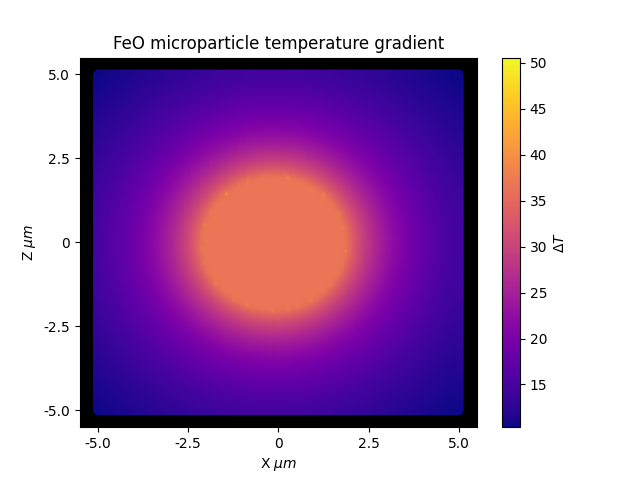
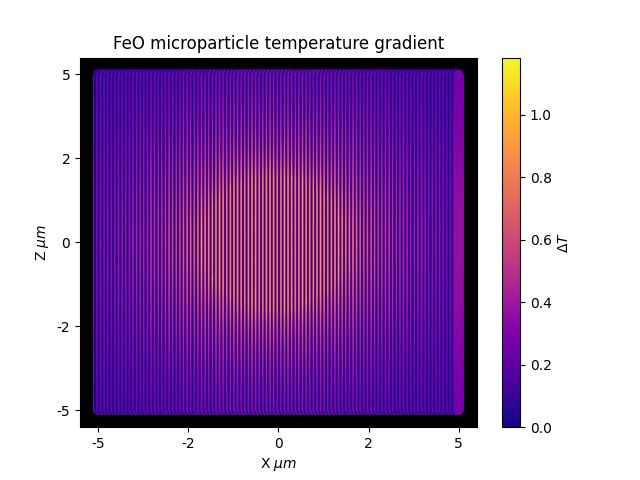
Agnese likes this :)

diff --git a/janus-gradient/src/main.cpp b/janus-gradient/src/main.cpp
@@ -12,36 +12,34 @@ using namespace std;
 std::random_device rd;
 std::mt19937 gen(rd());
 
-
+//Water conductivity = 0.606 
 
 //Constants:
-	const long double pi	       			       = 3.14159265358979323846;
-	const long double twoPi			       = 2*pi;
+	constexpr long double pi	       			       = 3.14159265358979323846;
+	constexpr long double twoPi			                = 2*3.14159265358979323846;
 
 
 //Particle:
-	const long double particleRadius            	= 2*pow(10,-6);
-	const int 	  nDeposits			      		= 1000;			  //should be between 1500-5000 depending on deposit size.
+	constexpr long double particleRadius            	= 2*pow(10,-6);
+	constexpr int 	          nDeposits			      	= 600;			  //should be between 1500-5000 depending on deposit size.
 //         const long double volumePerDeposit             = 4.1666*(10,-4)/nDeposits;
-	const long double depositRadius			= 10*pow(10,-9);	
-	const long double volumePerDeposit		= 4*pi*pow((depositRadius),3)/3; 
-	const long double depositArea			= pi*pow(depositRadius,2);
-	const long double kSilica				= 1.1;  			//W/m*K
+	constexpr long double depositRadius			= 30*pow(10,-9);	
+	constexpr  long double volumePerDeposit		= 4*pi*pow((depositRadius),3)/3; 
+	constexpr  long double depositArea			= pi*pow(depositRadius,2);
 //Simulation box:
-	const long double bounds 		   		= 5*pow(10,-6); //40 microns for now
+	constexpr long double bounds 		   		= 5*pow(10,-6); //40 microns for now
 	long double stepSize;
 	long double dv;
-	const long double alphaWater 			= 1.43*pow(10,-7);
+	constexpr long double alphaWater 			= 1.43*pow(10,-7);
 
 	
 //Laser:
-	const long double lambda			= 800*pow(10,-9);  //wavelength of laser. 
-	const long double intensity			= 100*pow(10,-3); // milliwatt laser
-	const long double areaOfIllumination     = 40*pow(10,-6); 
-	const long double I0				= 2*intensity/(pow(areaOfIllumination*2,2));
+	constexpr long double lambda			= 100*pow(10,-9);  //wavelength of laser. 
+	constexpr long double intensity			= 100*pow(10,-3); // milliwatt laser
+	constexpr  long double areaOfIllumination     = 40*pow(10,-6); 
+	constexpr long double I0				= 2*intensity/(pow(areaOfIllumination*2,2));
 	
-	const long double laserTerm 		= I0 + I0*cos(twoPi/lambda);
-	const long double qTerm 			= laserTerm*depositArea/(volumePerDeposit);
+
 	
 struct Point{
 	long double x;
@@ -56,22 +54,23 @@ float fastSqrt(const float n);
 
 
 inline long double integral(long double x, long double y, long double z,vector<Point> deposits){
+	long double positionFromCenter = sqrt(x*x + y*y + z*z);
+	long double laserTerm 		         = I0 + I0*cos(twoPi*x/lambda);
+	long double qTerm 			= laserTerm*depositArea/(volumePerDeposit);
+	
 	float contributionSum = 0.0;
 	float q = 0;
-	//long double positionFromCenter = sqrt(x*x + y*y + z*z);
-	float distance1;
+
+	float inv_sqrt_distance1;
 	//float distance2;
 	int i;
 
     	for (i = 0; i < deposits.size(); i++){
-    		distance1 = sqrt((x-deposits[i].x)*(x-deposits[i].x) + 
+    		inv_sqrt_distance1 = 1.0/sqrt((x-deposits[i].x)*(x-deposits[i].x) + 
     					    (y-deposits[i].y)*(y-deposits[i].y) +
     					    (z-deposits[i].z)*(z-deposits[i].z));
   		
-
-		
-		contributionSum +=  1/distance1;
-
+		contributionSum +=  inv_sqrt_distance1;
 	}
     	return contributionSum*dv*qTerm;
 }
@@ -79,8 +78,7 @@ inline long double integral(long double x, long double y, long double z,vector<P
 
 inline void generateDeposits(vector<Point> &deposits) {
     // Places out the deposits evenly according to the Fibonacci sphere.
-    Point newPoint;
-    const long double phi = M_PI * (3.0 - sqrt(5.0)); // Golden ratio constant
+    const long double phi     = M_PI * (3.0 - sqrt(5.0)); // Golden ratio constant
     const long double offset = 2.0 / nDeposits; // Offset to distribute points
 
     for (int i = 0; i < nDeposits; i++) {
@@ -90,11 +88,8 @@ inline void generateDeposits(vector<Point> &deposits) {
      const   long double theta = phi * i; // Use golden ratio to distribute points
      const   long double x = cos(theta) * radius * particleRadius;
      const   long double z = sin(theta) * radius * particleRadius;
-
-        newPoint.x = x;
-        newPoint.y = y * particleRadius;
-        newPoint.z = z;
-        deposits.push_back(newPoint);
+     
+     deposits.emplace_back(Point{x,y*particleRadius,z});
         
     }
 }
@@ -136,38 +131,37 @@ int main(int argc, char** argv) {
 	
 	 vector<vector<vector<long double>>> field(x.size(), vector<vector<long double>>(y.size(), vector<long double>(z.size())));
  	 cout<<"Finished initialization of "<< nDeposits <<" deposits."<<endl;
- 	
+
  	#pragma omp parallel for
     	for (int i = 0; i<x.size(); i++){
     		for(int j = 0; j<y.size(); j++){
     			for(int k = 0; k<z.size(); k++){
-    			
-    			
-				//For a given point in 3D space, compute the integral given by Agnese
+
 				field[i][j][k] = integral(x[i],y[j],z[k],deposits);
 				
-				                // Increment the current Iteration counter
-                currentIteration++;
+               			currentIteration++;
 
-                // Calculate progress percentage
-                if(currentIteration % 500 == 0) {
-               			
-             		 float progress = round(static_cast<float>(currentIteration) / totalIterations * 100.0);
+              			  // Calculate progress percentage
+              			if(currentIteration % 500 == 0) {
+             			  	float progress = round(static_cast<float>(currentIteration) / totalIterations * 100.0);
 
-               	 // Print progress bar
-               		 #pragma omp critical
-               	 			{
-                			    std::cout << "Progress: " << progress << "% (" << currentIteration << "/" << totalIterations << ")\r";
-                	  	 	 std::cout.flush();
-                			}
-              		  	}
+               				 // Print progress bar
+               				 #pragma omp critical
+               				 {
+                			 		cout << "Progress: "
+                			    		<< progress 
+                			    		<< "% ("
+                			   		<< currentIteration
+                			   	 	<< "/" 
+                			   	 	<< totalIterations 
+                			   		 << ")\r";
+                	  	 	 		cout.flush();
+                				}
+              			}
 			}
     		}
     	}
     
-  
-    
-	
 	cout<<"Simulation finished, writing to csv..."<<endl;
 	writeToCSV(x,y,z,field);
 		
@@ -182,71 +176,20 @@ int main(int argc, char** argv) {
 	return 0;
 }
 
-/*
-float fastSqrt(const float n) 
-{
-   static union{int i; float f;} u;
-   u.i = 0x5F375A86 - (*(int*)&n >> 1);
-   return (int(3) - n * u.f * u.f) * n * u.f * 0.5f;
-}
 
-*/
 void writeToCSV(const std::vector<long double>& x, const std::vector<long double>& y, const std::vector<long double>& z, std::vector<std::vector<std::vector<long double>>>& field) {
+
     std::ofstream outputFile("gradient.csv");
     outputFile << "x,y,z,gradientValue" << std::endl;
-    /*
-    std::string buffer;
-
-    for (int i = 0; i < x.size(); i++) {
-        for (int j = 0; j < y.size(); j++) {
-            for (int k = 0; k < z.size(); k++) {
-                buffer += std::to_string(x[i]) + "," + std::to_string(y[j]) + ","
-                          + std::to_string(z[k]) + "," + std::to_string(field[i][j][k]) + "\n";
-            }
-        }
-    }
-
-    // Write the entire buffer to the file in a single operation
-    outputFile << buffer;
-*/
-   
-    for (int i = 0; i < x.size(); i++) {
-        for (int j = 0; j < y.size(); j++) {
-            for (int k = 0; k < z.size(); k++) {
-                    outputFile << x[i] << "," << y[j] << "," << z[k] << "," << field[i][j][k] << std::endl;
-            }
-        }
-    }
+    
+	for (int i = 0; i < x.size(); i++) {
+	    	for (int j = 0; j < y.size(); j++) {
+	         	for (int k = 0; k < z.size(); k++) {
+	                  	outputFile << x[i] << "," << y[j] << "," << z[k] << "," << field[i][j][k] << std::endl;
+	    	        	}
+	       	}
+	 }
     
     outputFile.close();
 }
-
-/*
-inline long double getq(long double x) {
-	//Compute 
-	//long double I = I0 * (1+ cos(  twoPi*x/lambda));
-	
-	
-	long double output = (I0 + I0*cos(twoPi*abs(x)/lambda))/volumePerDeposit/kWater;
-	return output;
-}*/
-
-/*
-inline void generateDeposits(vector<Point> &deposits) {
-
-	
-	Point newPoint;
-	long double r,theta,phi;
-	
-	for(int i = 0; i < nDeposits; i++){
-		theta = dis(gen)*2*pi;
-		phi   = dis(gen)*pi;
-		r = particleRadius*dis(gen);
-		newPoint.x = r*sin(theta)*cos(phi);
-		newPoint.y = r*sin(theta)*sin(phi);
-		newPoint.z = r*cos(theta);
-		deposits.push_back(newPoint);	
-	}
-}*/
-
 

diff --git a/janus-gradient/src/main.py b/janus-gradient/src/main.py
@@ -55,11 +55,11 @@ cbar = plt.colorbar(sc,label ="$\Delta T$" )
 
 ax.set_xlabel('X $\mu m$')
 ax.set_xticks([min(x),min(x)/2,0,max(x)/2,max(x)])
-ax.set_xticklabels([min(x)*1e6,min(x)/2*1e6,0,max(x)/2*1e6, max(x)*1e6])
+ax.set_xticklabels([round(min(x)*1e6),round(min(x)/2*1e6),0,round(max(x)/2*1e6), round(max(x)*1e6)])
 
 ax.set_ylabel('Z $\mu m$')
 ax.set_yticks([min(z),min(z)/2,0,max(z)/2,max(z)])
-ax.set_yticklabels([min(z)*1e6,min(z)/2*1e6,0,max(z)/2*1e6, max(z)*1e6])
+ax.set_yticklabels([round(min(z)*1e6),round(min(z)/2*1e6),0,round(max(z)/2*1e6), round(max(z)*1e6)])
 
 
 
